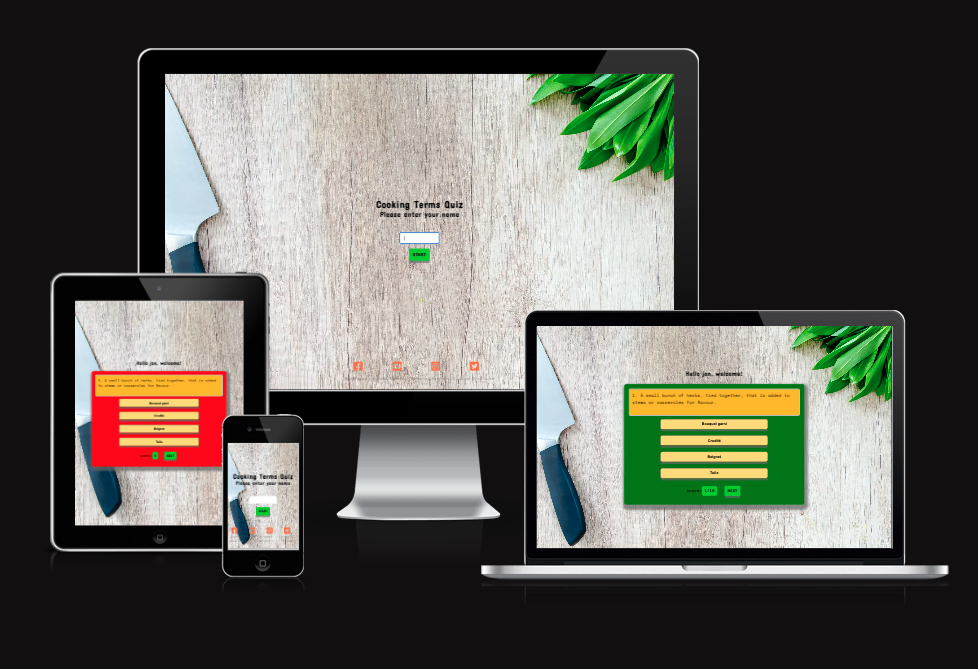
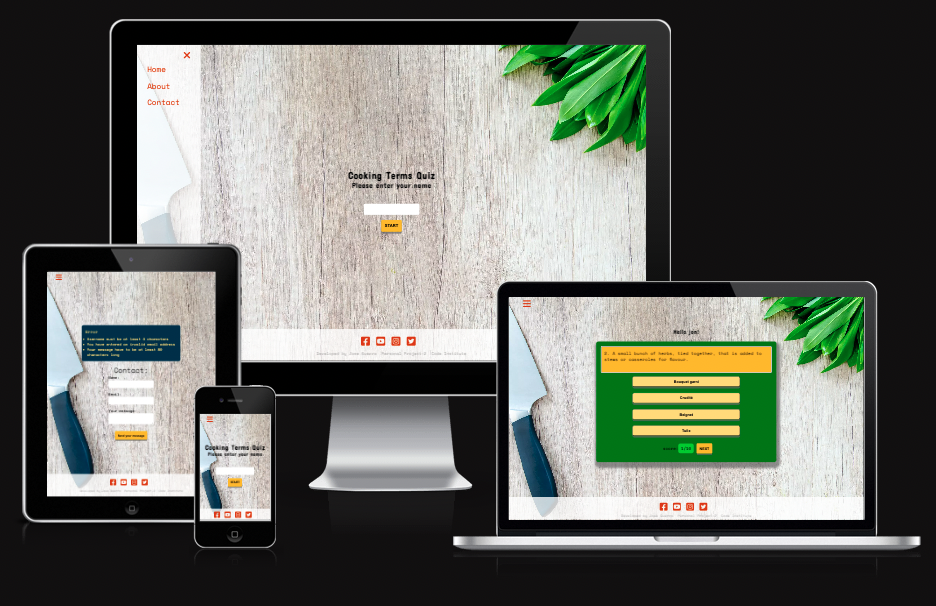
Add dropdown menus to  Readme file

diff --git a/assets/js/contact.js b/assets/js/contact.js
@@ -45,7 +45,7 @@ form.addEventListener('submit', e => {
     errorMessages.push('You have entered an invalid email address');
   }
   if (messageInput.value.length < 60) {
-    errorMessages.push('Your message have to be at least 80 characters long');
+    errorMessages.push('Your message have to be at least 60 characters long');
   }
   /**
    * If there are any errors then prevent the form from submitting and show the

diff --git a/README.md b/README.md
@@ -10,7 +10,7 @@
 
 This Website is the 2st out of five Personal Projects for the Code Institute's  Web Developer course
 with e-Commerce applications. It is built using HTML5, CSS and vanilla JAVASCRIPT
-The last update to this file was: **JuLY 8, 2022**
+The last update to this file was: **JuLY 24, 2022**
 
 This project is an educational online quiz that will help the user to sharpen or even learn new professional cookery terminology.
 
@@ -43,31 +43,59 @@ This project is an educational online quiz that will help the user to sharpen or
 
 - I want to see a feature if I answer all question correctly.
 - I want to be able to contact through social media.
+- I want to be able to fill a contact form to ask questions or make suggestions.
 
 ## Structure
 
 ### Typography
 
-Main font used in the App is Space Mono which has excellent readability features and compliments the Concert One Cursive font of the headings.
+Main font used in the App is Space Mono which has excellent readability features and compliments the
+Concert One Cursive font of the headings.
 
 ### Layout
 
-The website is one page with a fully responsive layout.
+The website is two pages with a fully responsive layout.
 
 ### Landing page
 
-The user will land to a page with a full screen image of a wooden table on top of which the is a chef knife on the bottom left corner and a bunch of cooking herbs on the top right corner of the screen, there is also a main heading with the title 'cooking quiz' making it clear to the user  of what the website is about. Bellow the heading there is a username input that the user is required to fill in order to gain access to the quiz. Once filled in and submitted, this data is used to personalized a welcome message for the user.In the bottom of the page the user will find links to the most popular social networks.
+The user will land to a page with a full screen image of a wooden table on top of which the is a
+chef knife on the bottom left corner and a bunch of cooking herbs on the top right corner of the screen,
+there is also a main heading with the title 'cooking quiz' making it clear to the user  of what the website
+is about. Bellow the heading there is a username input that the user is required to fill in order to gain access
+to the quiz. Once filled in and submitted, this data is used to personalized a welcome message for the user.In the
+bottom of the page the user will find links to the most popular social networks.
 
+### Animated navigation menu
+
+The site has an overlay side menu, activated my clicking on a hamburger icon situated at the top left of every page.
+The menu has a home link that will take the user to the home page,
+an About link that when clicked pop up a modal with information about the quiz.
+A contact link that will take the user to a fully validated contact form page.
+It also counts with timeout functionality for a better user experience in the menu and about section..
 
 ### Quiz section
 
-This is the main section of the website. The quiz section  will feature a card with a question on the top and four possible answers encapsulated in the form of a button. When the user press a button with the selected answer will get immediate feedback. The background will turn green if the answer is correct and red is the answer is incorrect. The score will also be updated showing the user newly achieved score and the total amount of question. The button next will appear so the user can move onto the next question and so on.
+This is the main section of the website. The quiz section  will feature a card with a question on the top and four
+possible answers encapsulated in the form of a button. When the user press a button with the selected answer will get
+immediate feedback. The background will turn green if the answer is correct and red is the answer is incorrect.
+The score will also be updated showing the user newly achieved score and the total amount of question.
+The button next will appear so the user can move onto the next question and so on.
 
 ### Features
 
-A modal message will pop congratulating the user if he/she achieve the maximum score.
+- Scoring system.
+- Input validation for username.
+- Randomize order of questions when user plays again.
+- A modal message will pop congratulating the user if he/she achieve the maximum score.
+- Three steps contact form validation with feedback of the data required.
+
+### Features left to implement
+
+- Larger data base of questions.
 
 ## Technologies
+
+<details>
 
 - [HTML](https://www.w3schools.com/html/default.asp)
   - This project uses html as the mark up language to give structure to the website.
@@ -99,7 +127,11 @@ A modal message will pop congratulating the user if he/she achieve the maximum s
 
   - Is a software that help beautify the code resulting in reducing data an improving performance.
 
+</details>
+
 ## Testing
+
+<details>
 
 - ### Event Listeners
 
@@ -112,7 +144,12 @@ A modal message will pop congratulating the user if he/she achieve the maximum s
 
 - ### Username input
 
-  - Input field in the form are working as expected, eg. if user miss to fill the required field a change of font color will catch user attention to fill the the username input.
+  - Input field in the form are working as expected, eg. if user miss to fill the required
+    field a change of font color will catch user attention to fill the the username input.
+
+- ### Contact form
+
+  - Name, email and textarea inputs have been tested and are working as expected. Validating thar user inputs are correct.
 
 - ### HTML and CSS
 
@@ -161,13 +198,19 @@ A modal message will pop congratulating the user if he/she achieve the maximum s
 - Lighthouse performance test on mobile does not passed.
   - I lightened the size of images but still does not pass.
 
+</details>
+
 ## Wireframe
+
+<details>
 
 - It has been some changes from the initial sketch to improve the visual design.
 
   - ![Wireframe](readme-images/balsamiq-website.png)
   - ![Wireframe](readme-images/balsamiq-tablet.png)
   - ![Wireframe](readme-images/balsamiq-mobile.png)
+
+</details>
 
 ## Deployment
 
@@ -193,4 +236,5 @@ A modal message will pop congratulating the user if he/she achieve the maximum s
 
 ## Acknowledgments
 
-- Thank you to my mentor Brian Macharia for guiding me and for his invaluable advice, to Senior Software Engineer and friend Eduardo Gonzalez for helping me in a moment when I got stuck, and  to the slack community of Code Institute, they are just great.
+- Thank you to my mentor Brian Macharia for guiding me and for his invaluable advice, to Senior Software
+Engineer and friend Eduardo Gonzalez for helping me in a moment when I got stuck, and  to the slack community of Code Institute, they are just great.
